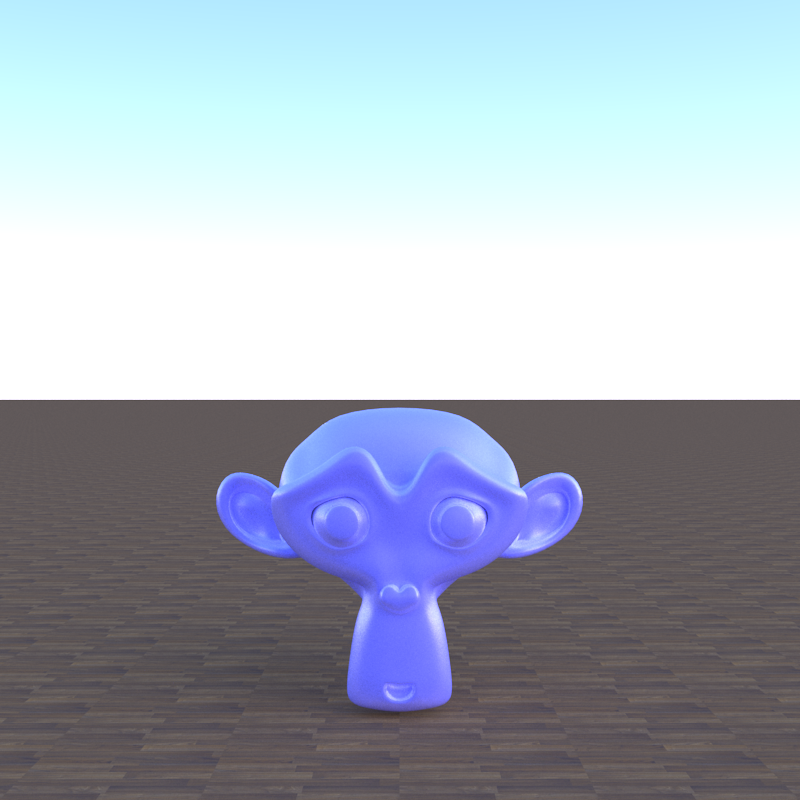
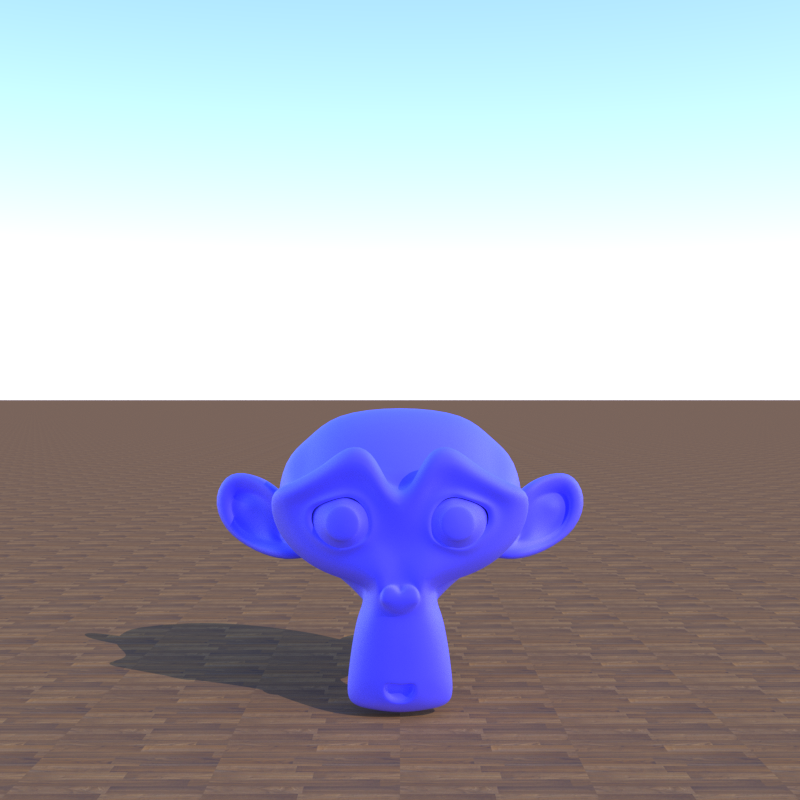
Update the documentation.

Changed region(s): [[0.0, 0.5, 1.0, 1.0]]

diff --git a/resources/scenes/PlasticMaterial.java b/resources/scenes/PlasticMaterial.java
@@ -1,7 +1,7 @@
 Material material1 = new MatteMaterial(new CheckerboardTexture());
-Material material2 = new PlasticMaterial(new Color3F(0.2F, 0.2F, 1.0F), Color3F.GRAY_0_50, Color3F.BLACK, 0.01F);
-Material material3 = new PlasticMaterial(new Color3F(0.2F, 0.2F, 1.0F), Color3F.GRAY_0_50, Color3F.BLACK, 0.01F);
-Material material4 = new PlasticMaterial(new Color3F(0.2F, 0.2F, 1.0F), Color3F.GRAY_0_50, Color3F.BLACK, 0.01F);
+Material material2 = new PlasticMaterial(new Color3F(0.05F, 0.05F, 1.0F), Color3F.GRAY_0_50);
+Material material3 = new PlasticMaterial(new Color3F(0.05F, 0.05F, 1.0F), Color3F.GRAY_0_50);
+Material material4 = new PlasticMaterial(new Color3F(0.05F, 0.05F, 1.0F), Color3F.GRAY_0_50);
 
 Shape3F shape1 = new Plane3F();
 Shape3F shape2 = new Torus3F();

diff --git a/resources/scenes/GPURenderer.java b/resources/scenes/GPURenderer.java
@@ -9,7 +9,7 @@ Material materialSphereD = new GlossyMaterial(Color3F.GRAY_0_50, Color3F.BLACK, 
 Material materialSphereE = new MatteMaterial(new Color3F(0.1F, 1.0F, 0.1F));
 Material materialSphereF = new MetalMaterial();
 Material materialSphereG = new MirrorMaterial(Color3F.GRAY_0_50);
-Material materialSphereH = new PlasticMaterial(new Color3F(0.2F, 0.2F, 1.0F), Color3F.GRAY_0_50, Color3F.BLACK, 0.01F);
+Material materialSphereH = new PlasticMaterial(new Color3F(0.05F, 0.05F, 1.0F), Color3F.GRAY_0_50);
 Material materialSphereI = new SubstrateMaterial(new Color3F(1.0F, 0.2F, 0.2F));
 
 Shape3F shapePlane = new Plane3F();

diff --git a/documentation/Scene/README.md b/documentation/Scene/README.md
@@ -174,7 +174,7 @@ new MirrorMaterial(Color3F.GRAY_0_50);
 #### Plastic Material Example
 The following example demonstrates how the `PlasticMaterial` can be created and looks visually.
 ```java
-new PlasticMaterial(new Color3F(0.2F, 0.2F, 1.0F), Color3F.GRAY_0_50, Color3F.BLACK, 0.01F);
+new PlasticMaterial(new Color3F(0.05F, 0.05F, 1.0F), Color3F.GRAY_0_50);
 ```
 ![alt text](https://github.com/macroing/Dayflower/blob/master/documentation/Scene/PlasticMaterial.png "PlasticMaterial")
 
